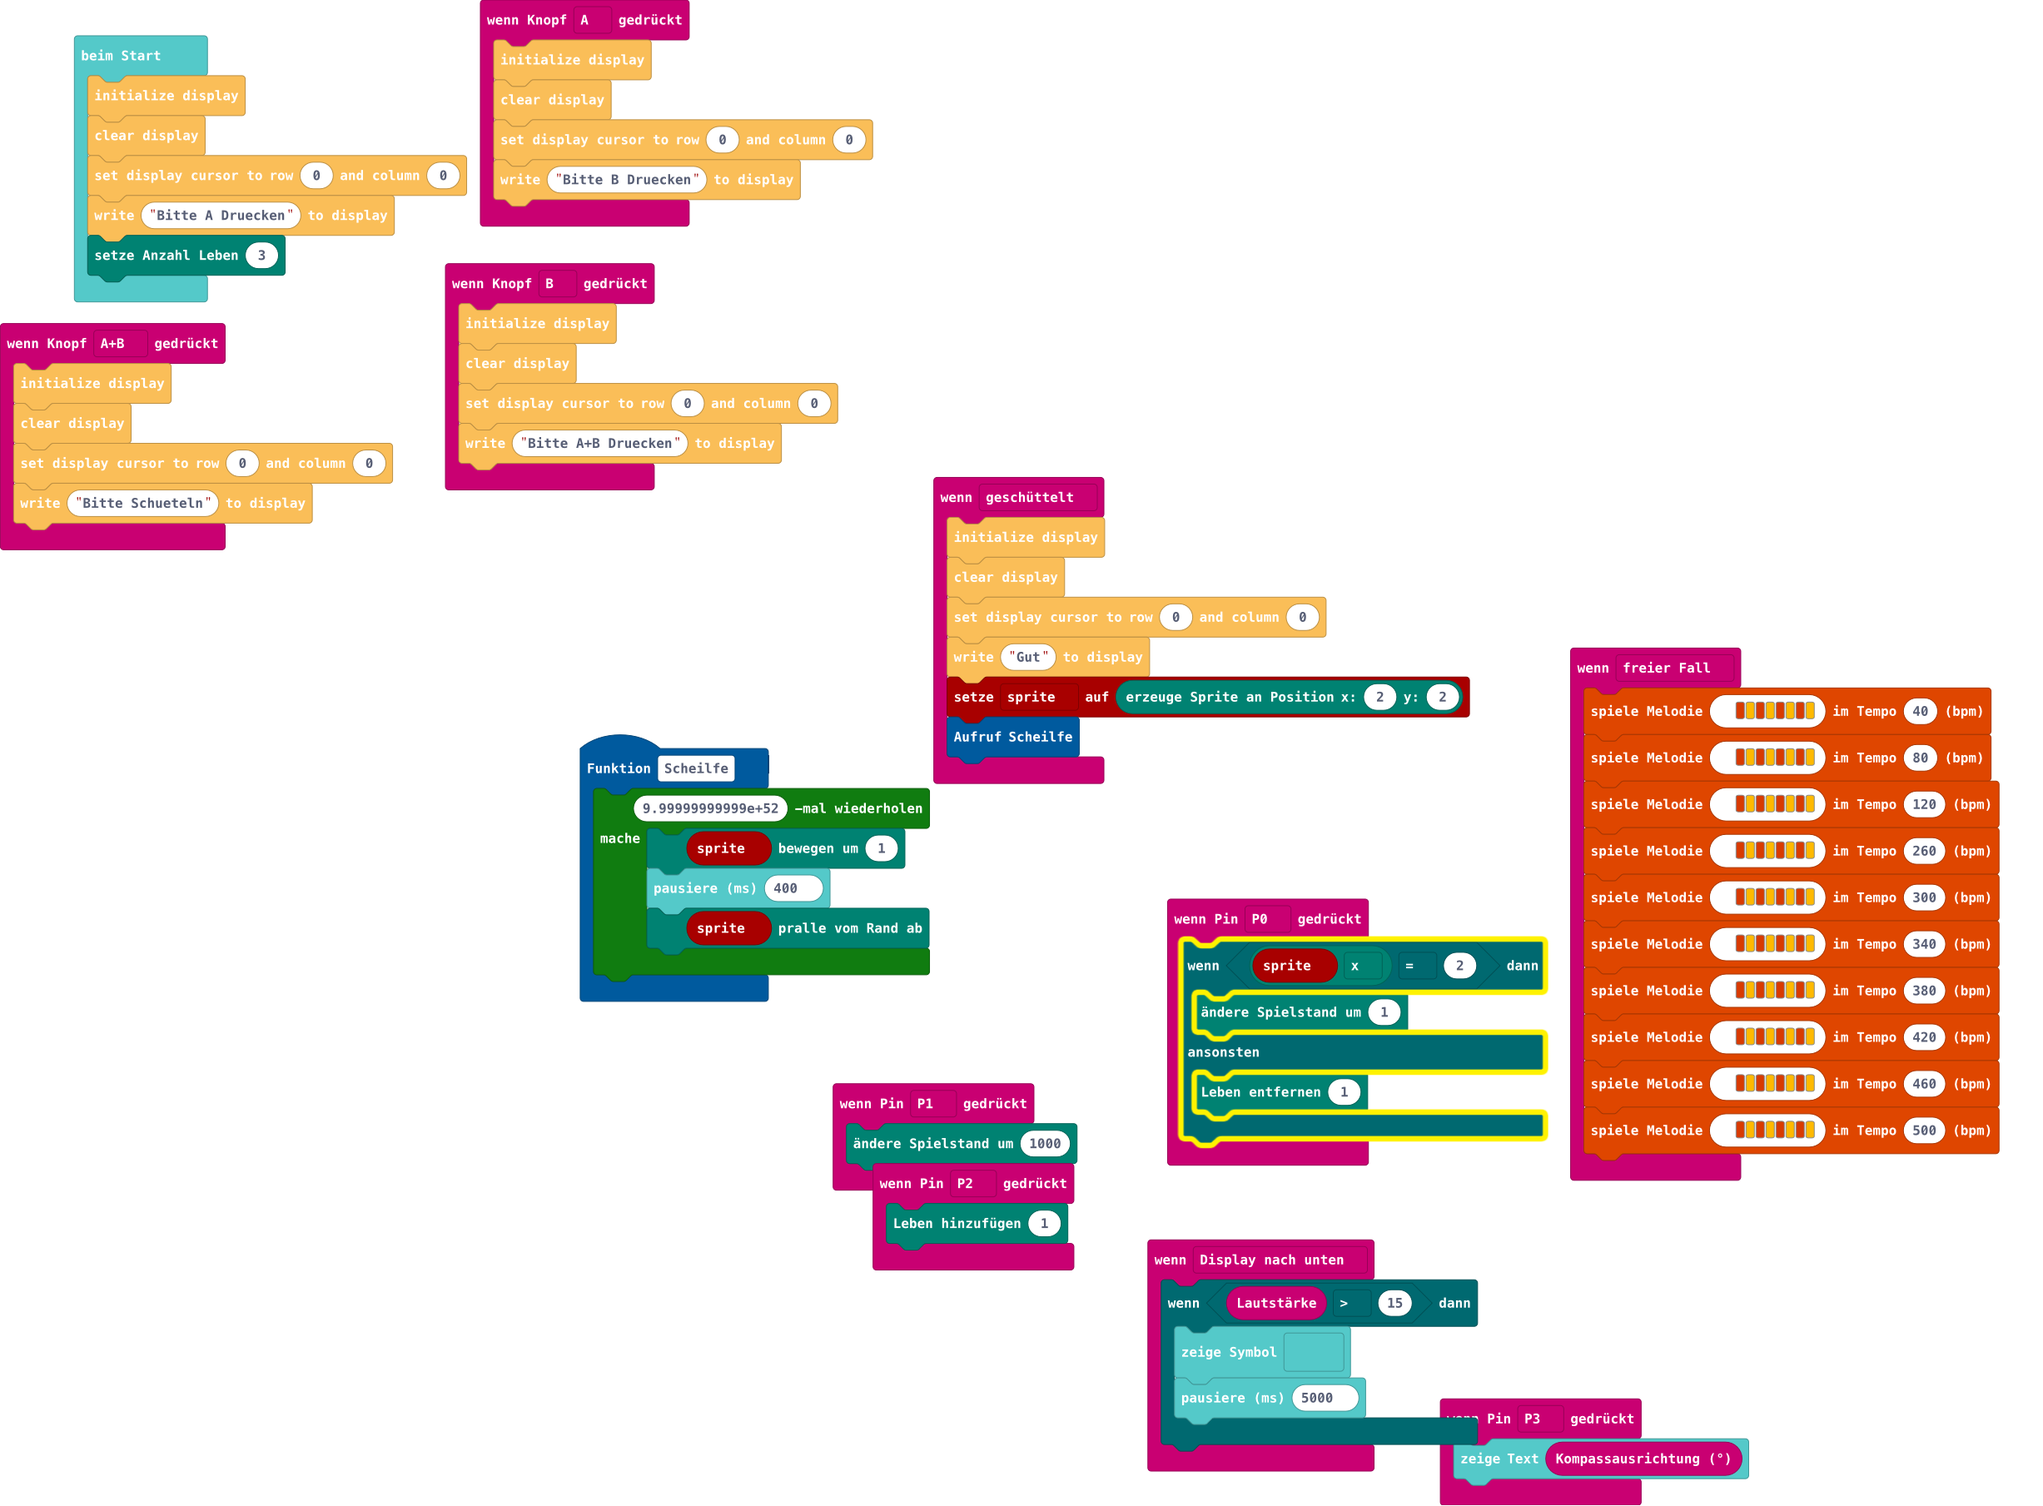
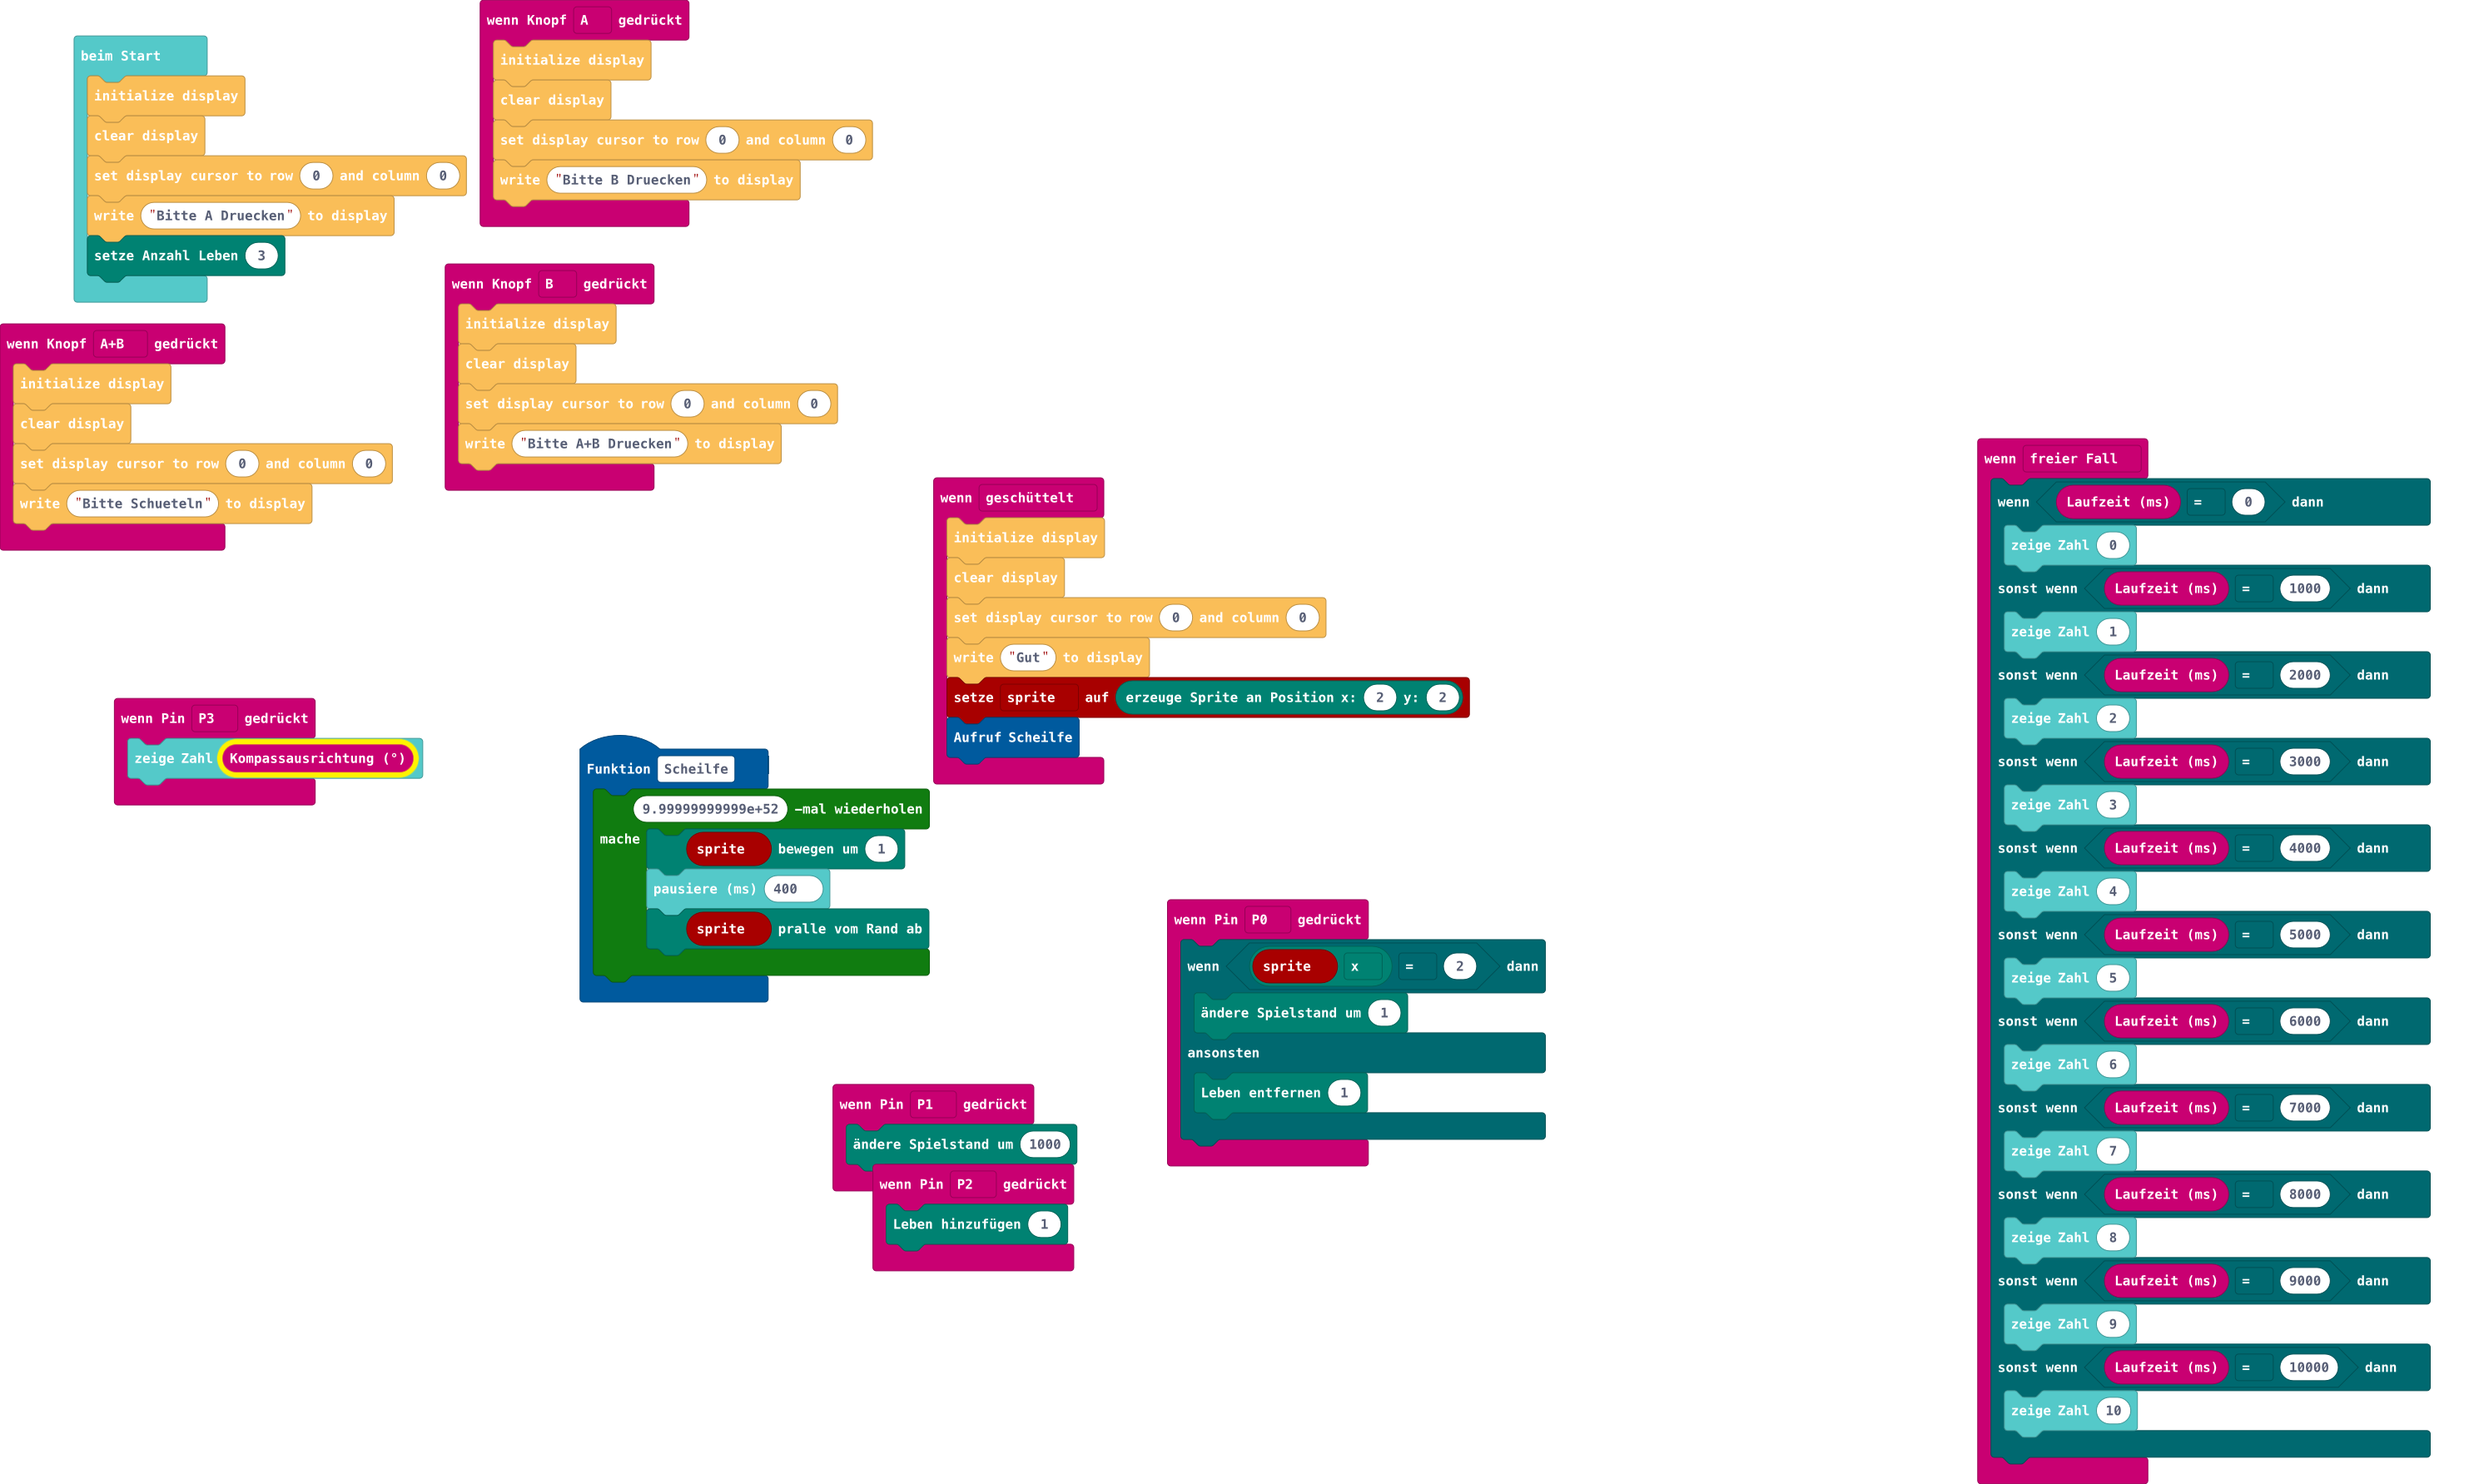
Aktualisiere pxt.json, main.blocks, main.ts, main.py

diff --git a/main.py b/main.py
@@ -6,32 +6,16 @@ input.onPinPressed(TouchPin.P0, function () {
     }
 })
 input.onGesture(Gesture.FreeFall, function () {
-    if (input.runningTime() == 0) {
-        basic.showNumber(0)
-    } else if (input.runningTime() == 1000) {
-        basic.showNumber(1)
-    } else if (input.runningTime() == 2000) {
-        basic.showNumber(2)
-    } else if (input.runningTime() == 3000) {
-        basic.showNumber(3)
-    } else if (input.runningTime() == 4000) {
-        basic.showNumber(4)
-    } else if (input.runningTime() == 5000) {
-        basic.showNumber(5)
-    } else if (input.runningTime() == 6000) {
-        basic.showNumber(6)
-    } else if (input.runningTime() == 7000) {
-        basic.showNumber(7)
-    } else if (input.runningTime() == 8000) {
-        basic.showNumber(8)
-    } else if (input.runningTime() == 9000) {
-        basic.showNumber(9)
-    } else if (input.runningTime() == 10000) {
-        basic.showNumber(10)
-    }
-})
-input.onPinPressed(TouchPin.P3, function () {
-    basic.showNumber(input.compassHeading())
+    music.playMelody("B A B A B A B A ", 40)
+    music.playMelody("B A B A B A B A ", 80)
+    music.playMelody("B A B A B A B A ", 120)
+    music.playMelody("B A B A B A B A ", 260)
+    music.playMelody("B A B A B A B A ", 300)
+    music.playMelody("B A B A B A B A ", 340)
+    music.playMelody("B A B A B A B A ", 380)
+    music.playMelody("B A B A B A B A ", 420)
+    music.playMelody("B A B A B A B A ", 460)
+    music.playMelody("B A B A B A B A ", 500)
 })
 input.onButtonPressed(Button.A, function () {
     oled96.initDisplay()
